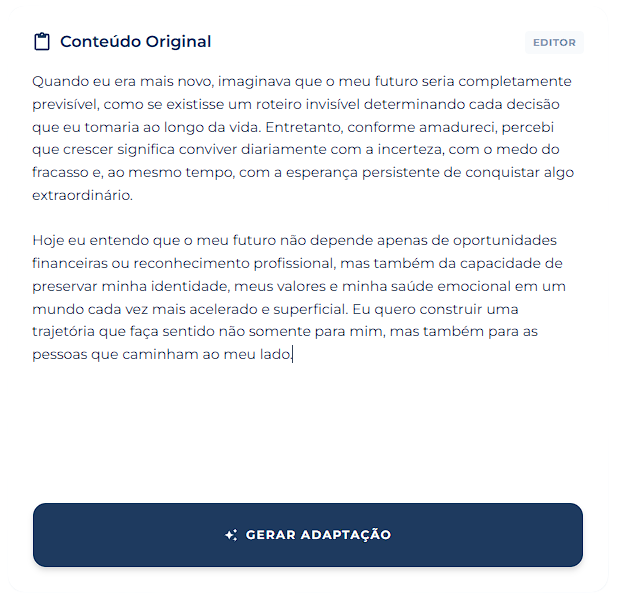
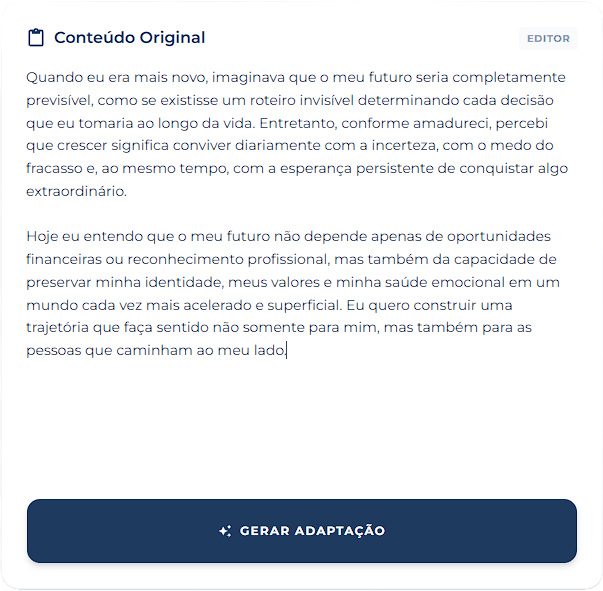
Style: Ajuste na section beforeAfter

diff --git a/app/LandingPage/sections/BeforeAfter.tsx b/app/LandingPage/sections/BeforeAfter.tsx
@@ -116,38 +116,34 @@ export default function BeforeAfterSection() {
         <div className="how-header mb-16 text-center">
           <h2 className="mb-4 text-3xl leading-tight font-extrabold tracking-tight text-[#1a3a5c] md:text-4xl lg:text-[42px]">
             Uma entrada,{" "}
-            <span className="text-[#2563a8]">múltiplas formas</span> de chegar a
-            todos
+            <span className="text-[#2563a8]">múltiplas formas</span>
           </h2>
           <p className="text-lg leading-relaxed text-[#4a6a8a]">
-            O professor fala ou digita normalmente. A Sina traduz para todos ao
-            mesmo tempo.
+            O professor digita. O Sina traduz.
           </p>
         </div>
 
         {/* Imagem → Seta → Imagem */}
         <div className="flex flex-col items-center justify-center gap-6 md:flex-row md:gap-8">
-          <div className="baf-item flex flex-1 justify-center">
+          <div className="baf-item flex flex-2 justify-center bg-transparent">
             <Image
               src="/BeforePrompt.png"
               alt="Antes"
-              width={0}
-              height={0}
-              sizes="(max-width: 768px) 90vw, 45vw"
-              className="h-auto w-full max-w-sm md:max-w-none"
+              width={1000}
+              height={1000}
+              className="h-auto w-full max-w-sm md:max-w-none rounded-lg object-cover md:-rotate-4"
             />
           </div>
 
           <Arrow />
 
-          <div className="baf-item flex flex-1 justify-center">
+          <div className="baf-item flex flex-3 justify-center ">
             <Image
               src="/AfterPrompt.png"
               alt="Depois"
-              width={0}
-              height={0}
-              sizes="(max-width: 768px) 90vw, 65vw"
-              className="h-auto w-full max-w-sm md:max-w-none"
+              width={1000}
+              height={1000}
+              className="h-auto w-full max-w-sm md:max-w-none object-cover"
             />
           </div>
         </div>
